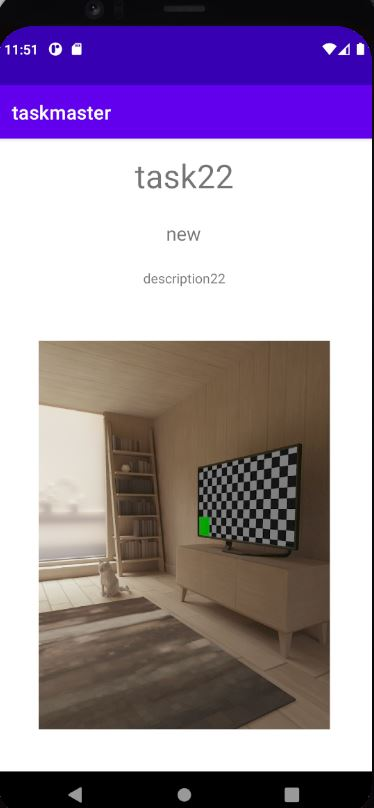
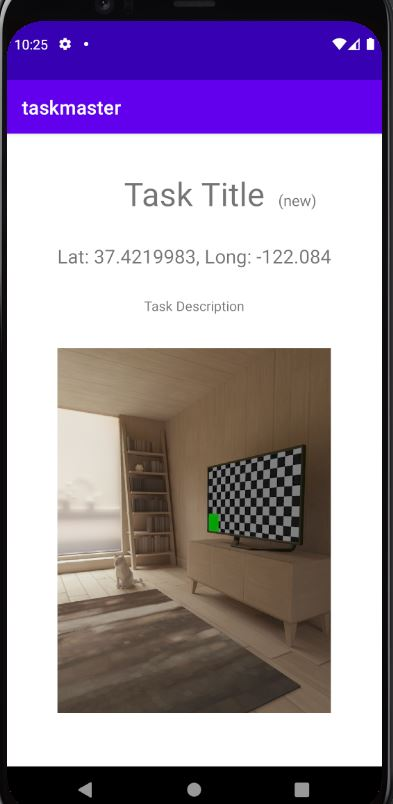
current location

diff --git a/app/src/main/java/com/example/taskmaster/AddTaskActivity.java b/app/src/main/java/com/example/taskmaster/AddTaskActivity.java
@@ -1,31 +1,30 @@
 package com.example.taskmaster;
 
-//import androidx.annotation.NonNull;
 import androidx.activity.result.ActivityResult;
 import androidx.activity.result.ActivityResultCallback;
 import androidx.activity.result.ActivityResultLauncher;
 import androidx.activity.result.contract.ActivityResultContracts;
+import androidx.annotation.NonNull;
 import androidx.annotation.RequiresApi;
 import androidx.appcompat.app.AppCompatActivity;
-//import androidx.recyclerview.widget.RecyclerView;
+import androidx.core.app.ActivityCompat;
 
-//import android.content.Context;
-//import android.net.ConnectivityManager;
+import android.Manifest;
 import android.annotation.SuppressLint;
 import android.app.Activity;
+import android.content.Context;
 import android.content.Intent;
-import android.graphics.Bitmap;
-import android.graphics.BitmapFactory;
+import android.content.pm.PackageManager;
+import android.location.Location;
+import android.location.LocationManager;
 import android.net.Uri;
 import android.os.Build;
 import android.os.Bundle;
-//import android.os.Handler;
-//import android.os.Looper;
-//import android.os.Message;
 import android.os.Environment;
 import android.os.FileUtils;
+import android.os.Looper;
+import android.provider.Settings;
 import android.util.Log;
-//import android.view.View;
 import android.view.View;
 import android.widget.ArrayAdapter;
 import android.widget.Button;
@@ -34,14 +33,17 @@ import android.widget.Spinner;
 import android.widget.TextView;
 import android.widget.Toast;
 
-//import com.amplifyframework.AmplifyException;
-//import com.amplifyframework.api.aws.AWSApiPlugin;
 import com.amplifyframework.api.graphql.model.ModelMutation;
 import com.amplifyframework.api.graphql.model.ModelQuery;
 import com.amplifyframework.core.Amplify;
-//import com.amplifyframework.datastore.AWSDataStorePlugin;
 import com.amplifyframework.datastore.generated.model.Task;
 import com.amplifyframework.datastore.generated.model.Team;
+import com.google.android.gms.location.FusedLocationProviderClient;
+import com.google.android.gms.location.LocationCallback;
+import com.google.android.gms.location.LocationRequest;
+import com.google.android.gms.location.LocationResult;
+import com.google.android.gms.location.LocationServices;
+import com.google.android.gms.tasks.OnCompleteListener;
 
 import java.io.File;
 import java.io.FileOutputStream;
@@ -51,9 +53,7 @@ import java.text.SimpleDateFormat;
 import java.util.ArrayList;
 import java.util.Date;
 import java.util.HashMap;
-import java.util.List;
 import java.util.Map;
-import java.util.Set;
 
 public class AddTaskActivity extends AppCompatActivity {
     private Spinner spinner;
@@ -67,13 +67,17 @@ public class AddTaskActivity extends AppCompatActivity {
     EditText taskTitleInput;
     EditText taskDescriptionInput;
     String imgSrc;
+    FusedLocationProviderClient mFusedLocationClient;
+    int PERMISSION_ID = 44;
+    String longitude;
+    String latitude;
 
     @Override
     protected void onCreate(Bundle savedInstanceState) {
         super.onCreate(savedInstanceState);
         setContentView(R.layout.activity_add_task);
 
-
+        mFusedLocationClient = LocationServices.getFusedLocationProviderClient(this);
 
 
         Button saveBtn = findViewById(R.id.saveBtn);
@@ -100,12 +104,14 @@ public class AddTaskActivity extends AppCompatActivity {
 
         saveBtn.setOnClickListener(view -> {
 
-
+            ArrayList<String> location = new ArrayList<>();
+            location.add(longitude);
+            location.add(latitude);
 
             switch(teamSpinner.getSelectedItem().toString()){
                 case "Team 1":
                     uploadFile();
-                    Task task = Task.builder().title(taskTitleInput.getText().toString()).body(taskDescriptionInput.getText().toString()).state(spinner.getSelectedItem().toString()).team(teams.get("Team 1")).fileName(fileName).build();
+                    Task task = Task.builder().title(taskTitleInput.getText().toString()).body(taskDescriptionInput.getText().toString()).state(spinner.getSelectedItem().toString()).team(teams.get("Team 1")).fileName(fileName).location(location).build();
                     saveToAPI(task);
                     saveToDatastore(task);
 //                    Log.i("add to team ", "onCreate: "+task.getTeam().getName());
@@ -113,7 +119,7 @@ public class AddTaskActivity extends AppCompatActivity {
                     break;
                 case "Team 2":
                     uploadFile();
-                    Task task2 = Task.builder().title(taskTitleInput.getText().toString()).body(taskDescriptionInput.getText().toString()).state(spinner.getSelectedItem().toString()).team(teams.get("Team 2")).fileName(fileName).build();
+                    Task task2 = Task.builder().title(taskTitleInput.getText().toString()).body(taskDescriptionInput.getText().toString()).state(spinner.getSelectedItem().toString()).team(teams.get("Team 2")).fileName(fileName).location(location).build();
                     saveToAPI(task2);
                     saveToDatastore(task2);
 //                    Log.i("add to team ", "onCreate: "+task2.getTeam().getName());
@@ -121,7 +127,7 @@ public class AddTaskActivity extends AppCompatActivity {
                     break;
                 case "Team 3":
                     uploadFile();
-                    Task task3 = Task.builder().title(taskTitleInput.getText().toString()).body(taskDescriptionInput.getText().toString()).state(spinner.getSelectedItem().toString()).team(teams.get("Team 3")).fileName(fileName).build();
+                    Task task3 = Task.builder().title(taskTitleInput.getText().toString()).body(taskDescriptionInput.getText().toString()).state(spinner.getSelectedItem().toString()).team(teams.get("Team 3")).fileName(fileName).location(location).build();
                     saveToAPI(task3);
                     saveToDatastore(task3);
 //                    Log.i("add to team ", "onCreate: "+task3.getTeam().getName());
@@ -136,6 +142,8 @@ public class AddTaskActivity extends AppCompatActivity {
         findViewById(R.id.uploadBtn).setOnClickListener(view -> {
             getFileFromDevice();
         });
+
+        getLastLocation();
     }
 
     @SuppressLint("SimpleDateFormat")
@@ -182,6 +190,10 @@ public class AddTaskActivity extends AppCompatActivity {
             TextView imgSrc = findViewById(R.id.imgSrc);
             imgSrc.setText(this.imgSrc);
             imgSrc.setVisibility(View.VISIBLE);
+        }
+
+        if (checkPermissions()) {
+            getLastLocation();
         }
     }
 
@@ -282,4 +294,96 @@ public class AddTaskActivity extends AppCompatActivity {
                 }
             });
 
+    @SuppressLint("MissingPermission")
+    private void getLastLocation() {
+        // check if permissions are given
+        if (checkPermissions()) {
+
+            // check if location is enabled
+            if (isLocationEnabled()) {
+
+                // getting last
+                // location from
+                // FusedLocationClient
+                // object
+                mFusedLocationClient.getLastLocation().addOnCompleteListener(new OnCompleteListener<Location>() {
+                    @SuppressLint("SetTextI18n")
+                    @Override
+                    public void onComplete(@NonNull com.google.android.gms.tasks.Task<Location> task) {
+                        Location location = task.getResult();
+                        if (location == null) {
+                            requestNewLocationData();
+                        } else {
+                            longitude = String.valueOf(location.getLongitude());
+                            latitude = String.valueOf(location.getLatitude());
+
+                        }
+                    }
+                    
+                });
+            } else {
+                Toast.makeText(this, "Please turn on" + " your location...", Toast.LENGTH_LONG).show();
+                Intent intent = new Intent(Settings.ACTION_LOCATION_SOURCE_SETTINGS);
+                startActivity(intent);
+            }
+        } else {
+            // if permissions aren't available,
+            // request for permissions
+            requestPermissions();
+        }
+    }
+
+    private void requestPermissions() {
+        ActivityCompat.requestPermissions(this, new String[]{
+                Manifest.permission.ACCESS_COARSE_LOCATION,
+                Manifest.permission.ACCESS_FINE_LOCATION}, PERMISSION_ID);
+    }
+
+    @SuppressLint("MissingPermission")
+    private void requestNewLocationData() {
+        // Initializing LocationRequest
+        // object with appropriate methods
+        LocationRequest mLocationRequest = new LocationRequest();
+        mLocationRequest.setPriority(LocationRequest.PRIORITY_HIGH_ACCURACY);
+        mLocationRequest.setInterval(5);
+        mLocationRequest.setFastestInterval(0);
+        mLocationRequest.setNumUpdates(1);
+
+        // setting LocationRequest
+        // on FusedLocationClient
+        mFusedLocationClient = LocationServices.getFusedLocationProviderClient(this);
+        mFusedLocationClient.requestLocationUpdates(mLocationRequest, mLocationCallback, Looper.myLooper());
+
+    }
+    private LocationCallback mLocationCallback = new LocationCallback() {
+
+        @SuppressLint("SetTextI18n")
+        @Override
+        public void onLocationResult(LocationResult locationResult) {
+            Location mLastLocation = locationResult.getLastLocation();
+                longitude = String.valueOf(mLastLocation.getLongitude());
+                latitude = String.valueOf(mLastLocation.getLatitude());
+        }
+    };
+
+    private boolean isLocationEnabled() {
+        LocationManager locationManager = (LocationManager) getSystemService(Context.LOCATION_SERVICE);
+        return locationManager.isProviderEnabled(LocationManager.GPS_PROVIDER) || locationManager.isProviderEnabled(LocationManager.NETWORK_PROVIDER);
+
+    }
+
+    private boolean checkPermissions() {
+        return ActivityCompat.checkSelfPermission(this, Manifest.permission.ACCESS_COARSE_LOCATION) == PackageManager.PERMISSION_GRANTED && ActivityCompat.checkSelfPermission(this, Manifest.permission.ACCESS_FINE_LOCATION) == PackageManager.PERMISSION_GRANTED;
+    }
+
+    @Override
+    public void onRequestPermissionsResult(int requestCode, @NonNull String[] permissions, @NonNull int[] grantResults) {
+        super.onRequestPermissionsResult(requestCode, permissions, grantResults);
+
+        if (requestCode == PERMISSION_ID) {
+            if (grantResults.length > 0 && grantResults[0] == PackageManager.PERMISSION_GRANTED) {
+                getLastLocation();
+            }
+        }
+    }
 }

diff --git a/app/src/main/java/com/example/taskmaster/TaskDetailsActivity.java b/app/src/main/java/com/example/taskmaster/TaskDetailsActivity.java
@@ -8,6 +8,7 @@ import androidx.annotation.RequiresApi;
 import androidx.appcompat.app.AppCompatActivity;
 import androidx.core.text.HtmlCompat;
 
+import android.annotation.SuppressLint;
 import android.app.Activity;
 import android.content.Intent;
 import android.graphics.BitmapFactory;
@@ -25,6 +26,8 @@ import android.widget.TextView;
 
 import com.amplifyframework.core.Amplify;
 
+import org.w3c.dom.Text;
+
 import java.io.File;
 import java.io.FileOutputStream;
 import java.io.IOException;
@@ -38,6 +41,7 @@ public class TaskDetailsActivity extends AppCompatActivity {
     private URL url;
 
 
+    @SuppressLint("SetTextI18n")
     @Override
     protected void onCreate(Bundle savedInstanceState) {
         super.onCreate(savedInstanceState);
@@ -48,13 +52,15 @@ public class TaskDetailsActivity extends AppCompatActivity {
         TextView textTitle = findViewById(R.id.taskName);
         TextView textState = findViewById(R.id.taskState);
         TextView textDescription = findViewById(R.id.taskBody);
+        TextView locationText = findViewById(R.id.locationText);
 
         fileName = intent.getExtras().getString("taskFileName");
 
         Log.i("FIlE_NAME", "onCreate: "+fileName);
         textTitle.setText(intent.getExtras().getString("taskName"));
-        textState.setText( intent.getExtras().getString("taskState"));
+        textState.setText( "("+intent.getExtras().getString("taskState")+")");
         textDescription.setText( intent.getExtras().getString("taskBody"));
+        locationText.setText("Lat: "+intent.getExtras().getString("taskLat")+", Long: "+intent.getExtras().getString("taskLong"));
 
         Amplify.Storage.getUrl(
                 fileName,

diff --git a/app/src/main/java/com/example/taskmaster/MainActivity.java b/app/src/main/java/com/example/taskmaster/MainActivity.java
@@ -187,6 +187,8 @@ public class MainActivity extends AppCompatActivity {
                 intent.putExtra("taskBody", teamTasks.get(position).getBody());
                 intent.putExtra("taskState", teamTasks.get(position).getState());
                 intent.putExtra("taskFileName", teamTasks.get(position).getFileName());
+                intent.putExtra("taskLong", teamTasks.get(position).getLocation().get(0));
+                intent.putExtra("taskLat", teamTasks.get(position).getLocation().get(1));
                 startActivity(intent);
             }
 
@@ -232,6 +234,7 @@ public class MainActivity extends AppCompatActivity {
         return super.onOptionsItemSelected(item);
     }
 
+    @SuppressLint("MissingPermission")
     public boolean isNetworkAvailable(Context context) {
         ConnectivityManager connectivityManager = ((ConnectivityManager) context.getSystemService(Context.CONNECTIVITY_SERVICE));
         return connectivityManager.getActiveNetworkInfo() != null && connectivityManager.getActiveNetworkInfo().isConnected();

diff --git a/README.md b/README.md
@@ -50,3 +50,5 @@ Daily change log:
 26th of August, 2021: Added the ability for our app to upload files and store it on AWS S3 and assign it to specific task, also added the ability to view the file that has been uploaded when click on a task in task details page.
 
 29th of August, 2021: Added intent filters to my app, which enables the user to share text files and images to my app, which in turn navigates him to "Add Task" page with file he shared filled up in form.
+
+30th of August, 2021: Added Google location service to get current location when adding new task, and display the location when task was been added to "Task Details" page.
